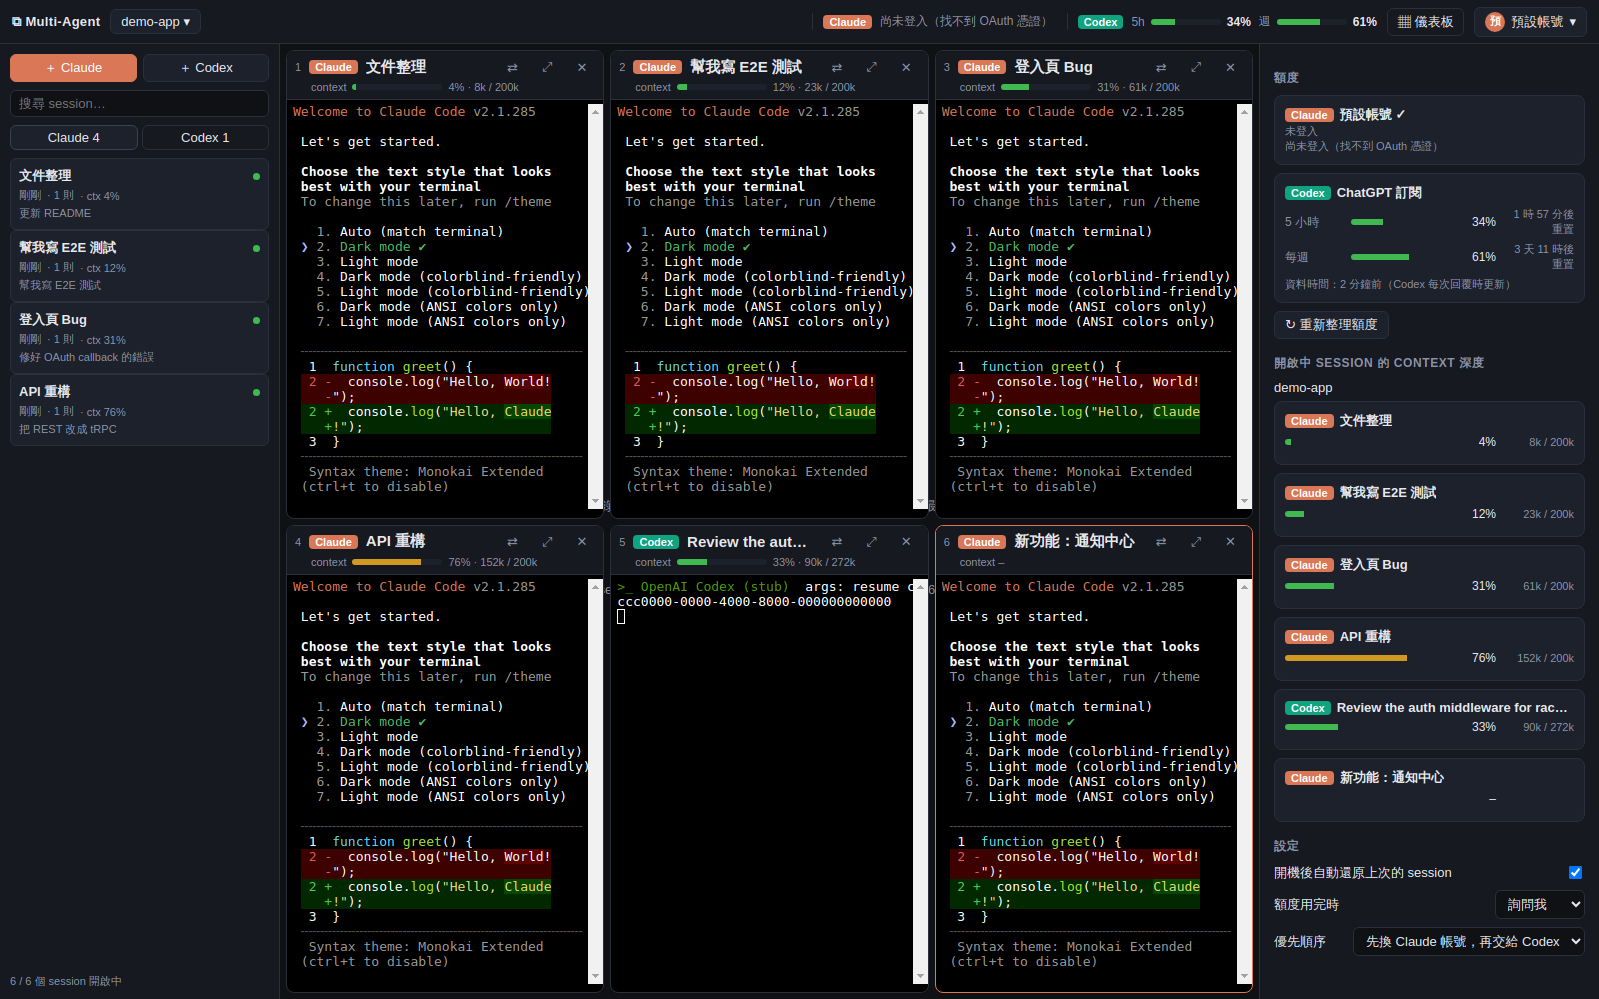
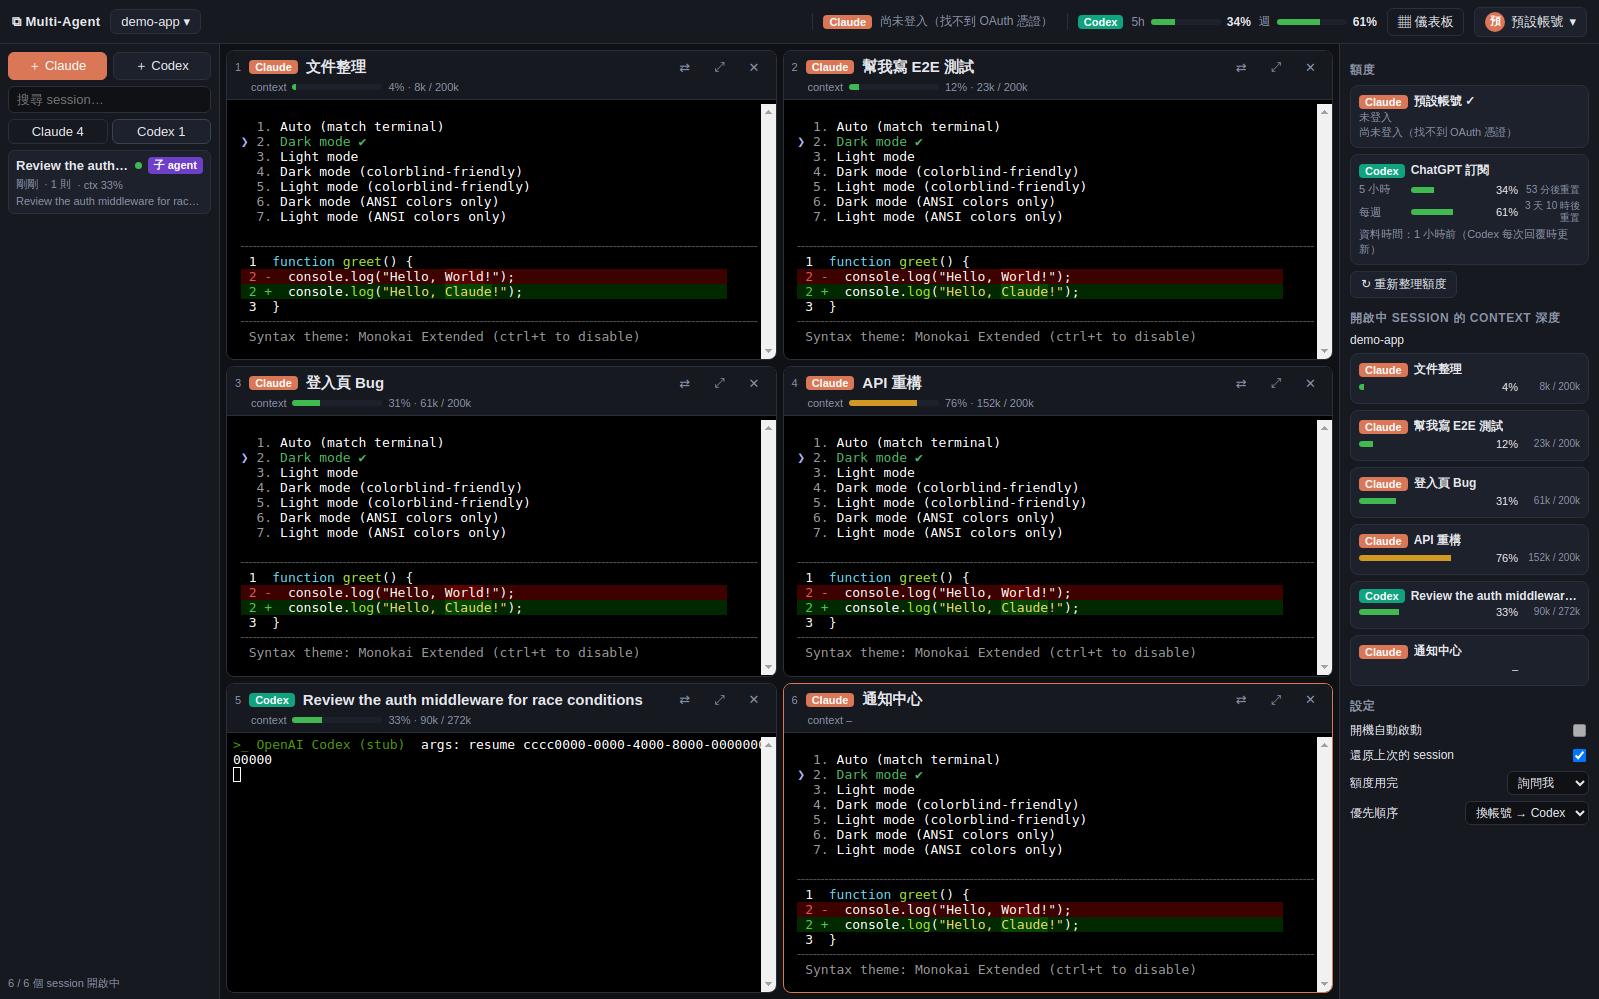
Slimmer side panels and adaptive pane grid that always fills the workspace
- Sidebar 280px -> 220px, dashboard 340px -> 260px with compact cards/settings
- Grid picks column count from the workspace aspect ratio; a short last row
  stretches its panes so any pane count fills the area; relayout on resize
  and when the dashboard is toggled
- Clip xterm helper elements inside each pane and give the workspace a
  background so gaps repaint cleanly after relayout

Claude-Session: https://claude.ai/code/session_01H4MbeqU6uQkmUebYD4LS2x

diff --git a/src/renderer/app.js b/src/renderer/app.js
@@ -216,16 +216,37 @@ function workspaceFor(cwd) {
   return w;
 }
 
-// 1→1×1、2→2×1、3→3×1、4→2×2、5→上 3 下 2、6→3×2，所有窗格平均分配空間
+// 自適應版面：依工作區長寬比挑欄數，讓每格接近終端機舒適的比例（寬:高 ≈ 1.4）。
+// 最後一列若不滿，該列窗格自動加寬，所以不管開幾個都會填滿整個區域、不留空格。
+const TARGET_ASPECT = 1.4;
+const gcd = (a, b) => (b ? gcd(b, a % b) : a);
+
+function bestGrid(n, W, H) {
+  let best = null;
+  for (let cols = 1; cols <= n; cols++) {
+    const rows = Math.ceil(n / cols);
+    const last = n - cols * (rows - 1);
+    const h = H / rows;
+    const off = (w) => Math.abs(Math.log(w / h / TARGET_ASPECT));
+    const cost = ((n - last) * off(W / cols) + last * off(W / last)) / n;
+    if (!best || cost < best.cost - 1e-9) best = { cols, rows, last, cost };
+  }
+  return best;
+}
+
 function layoutGrid(w) {
   const n = w.panes.length;
-  const spec = { 0: [1, 1], 1: [1, 1], 2: [2, 1], 3: [3, 1], 4: [2, 2], 5: [6, 2], 6: [3, 2] }[n];
-  w.el.style.gridTemplateColumns = `repeat(${spec[0]}, minmax(0, 1fr))`;
-  w.el.style.gridTemplateRows = `repeat(${spec[1]}, minmax(0, 1fr))`;
-  w.panes.forEach((p, i) => {
-    p.el.style.gridColumn = n === 5 ? `span ${i < 3 ? 2 : 3}` : '';
-    $('.pane-idx', p.el).textContent = `${i + 1}`;
-  });
+  const host = $('#workspaces');
+  if (n) {
+    const { cols, rows, last } = bestGrid(n, host.clientWidth || 1600, host.clientHeight || 900);
+    const L = (cols * last) / gcd(cols, last); // 欄數取最小公倍數，讓整列與最後一列都能平均分
+    w.el.style.gridTemplateColumns = `repeat(${L}, minmax(0, 1fr))`;
+    w.el.style.gridTemplateRows = `repeat(${rows}, minmax(0, 1fr))`;
+    w.panes.forEach((p, i) => {
+      p.el.style.gridColumn = `span ${i < n - last ? L / cols : L / last}`;
+    });
+  }
+  w.panes.forEach((p, i) => ($('.pane-idx', p.el).textContent = `${i + 1}`));
   $('#empty').hidden = !!S.cwd;
   $('#paneCount').textContent = `${n} / ${S.maxPanes}`;
 }
@@ -924,9 +945,9 @@ function renderDashboard() {
 
   const st = S.settings;
   $('#dashSettings').innerHTML = `
-    <label>登入電腦時自動開啟本程式 <input type="checkbox" id="setLogin" ${st.openAtLogin ? 'checked' : ''} ${S.platform === 'linux' ? 'disabled' : ''}></label>
-    <label>啟動後自動還原上次的 session <input type="checkbox" id="setRestore" ${st.autoRestore ? 'checked' : ''}></label>
-    <label>額度用完時
+    <label>開機自動啟動 <input type="checkbox" id="setLogin" ${st.openAtLogin ? 'checked' : ''} ${S.platform === 'linux' ? 'disabled' : ''}></label>
+    <label>還原上次的 session <input type="checkbox" id="setRestore" ${st.autoRestore ? 'checked' : ''}></label>
+    <label>額度用完
       <select id="setFallback">
         <option value="ask" ${st.fallback === 'ask' ? 'selected' : ''}>詢問我</option>
         <option value="auto" ${st.fallback === 'auto' ? 'selected' : ''}>自動接手</option>
@@ -934,8 +955,8 @@ function renderDashboard() {
       </select></label>
     <label>優先順序
       <select id="setOrder">
-        <option value="other-profile,codex" ${String(st.fallbackOrder) === 'other-profile,codex' ? 'selected' : ''}>先換 Claude 帳號，再交給 Codex</option>
-        <option value="codex,other-profile" ${String(st.fallbackOrder) === 'codex,other-profile' ? 'selected' : ''}>先交給 Codex</option>
+        <option value="other-profile,codex" ${String(st.fallbackOrder) === 'other-profile,codex' ? 'selected' : ''}>換帳號 → Codex</option>
+        <option value="codex,other-profile" ${String(st.fallbackOrder) === 'codex,other-profile' ? 'selected' : ''}>Codex 優先</option>
       </select></label>`;
   $('#setLogin').onchange = (e) => saveSettings({ openAtLogin: e.target.checked });
   $('#setRestore').onchange = (e) => saveSettings({ autoRestore: e.target.checked });
@@ -985,6 +1006,15 @@ async function boot() {
     renderDashboard();
   };
   $('#emptyPick').onclick = pickProject;
+  // 視窗縮放、開關儀表板時重新計算版面（各終端機再由自己的 ResizeObserver 重新 fit）
+  let relayoutTimer;
+  new ResizeObserver(() => {
+    clearTimeout(relayoutTimer);
+    relayoutTimer = setTimeout(() => {
+      const w = ws();
+      if (w) layoutGrid(w);
+    }, 50);
+  }).observe($('#workspaces'));
   $('#newClaude').onclick = () => newSession('claude');
   $('#newCodex').onclick = () => newSession('codex');
   $('#search').oninput = (e) => {

diff --git a/src/renderer/styles.css b/src/renderer/styles.css
@@ -178,12 +178,12 @@ select {
   height: calc(100% - 44px);
 }
 #sidebar {
-  width: 280px;
+  width: 220px;
   flex-shrink: 0;
   display: flex;
   flex-direction: column;
-  gap: 8px;
-  padding: 10px;
+  gap: 6px;
+  padding: 8px;
   background: var(--panel);
   border-right: 1px solid var(--line);
 }
@@ -214,7 +214,7 @@ select {
   flex: 1;
 }
 .session-list li {
-  padding: 8px;
+  padding: 6px 7px;
   border-radius: 6px;
   cursor: pointer;
   border: 1px solid transparent;
@@ -274,6 +274,7 @@ select {
 .workspace {
   position: absolute;
   inset: 0;
+  background: var(--bg); /* 明確背景：版面重排後縫隙會重繪，不殘留舊畫面 */
   display: grid;
   gap: 6px;
   padding: 6px;
@@ -313,6 +314,7 @@ select {
 
 /* ---------- panes ---------- */
 .pane {
+  position: relative; /* 讓 xterm 的絕對定位輔助元素被裁切在窗格內 */
   display: flex;
   flex-direction: column;
   min-width: 0;
@@ -404,6 +406,8 @@ select {
   min-width: 160px;
 }
 .term {
+  position: relative;
+  overflow: hidden;
   flex: 1;
   min-height: 0;
   padding: 4px 0 0 6px;
@@ -414,10 +418,11 @@ select {
 
 /* ---------- dashboard ---------- */
 #dashboard {
-  width: 340px;
+  width: 260px;
   flex-shrink: 0;
   overflow-y: auto;
-  padding: 10px 14px;
+  padding: 6px 10px;
+  font-size: 12px;
   background: var(--panel);
   border-left: 1px solid var(--line);
 }
@@ -426,38 +431,39 @@ select {
   text-transform: uppercase;
   letter-spacing: 0.6px;
   color: var(--muted);
-  margin: 16px 0 8px;
+  margin: 12px 0 6px;
 }
 .card {
   background: var(--panel-2);
   border: 1px solid var(--line);
   border-radius: var(--radius);
-  padding: 10px;
-  margin-bottom: 8px;
+  padding: 7px 8px;
+  margin-bottom: 6px;
 }
 .card .row {
   display: flex;
   align-items: center;
-  gap: 8px;
-  margin: 5px 0;
-  font-size: 12px;
+  gap: 6px;
+  margin: 3px 0;
+  font-size: 11px;
 }
 .card .row .label {
-  width: 58px;
+  width: 46px;
   color: var(--muted);
 }
 .card .row .bar {
   flex: 1;
 }
 .card .row .val {
-  width: 42px;
+  width: 32px;
   text-align: right;
 }
 .card .row .reset {
   color: var(--muted);
-  font-size: 11px;
-  width: 70px;
+  font-size: 10px;
+  width: 56px;
   text-align: right;
+  line-height: 1.2;
 }
 .card .head {
   display: flex;
@@ -473,8 +479,12 @@ select {
   display: flex;
   align-items: center;
   justify-content: space-between;
-  gap: 8px;
-  margin: 8px 0;
+  gap: 6px;
+  margin: 6px 0;
+}
+.settings select {
+  max-width: 130px;
+  padding: 3px 6px;
 }
 
 /* ---------- popover / modal / toast ---------- */

diff --git a/README.md b/README.md
@@ -3,7 +3,7 @@
 一個桌面視窗，集中管理同一個專案底下的所有 **Claude Code** 與 **Codex** session：
 
 - 進到專案就看到該目錄的 **所有 session 歷史**（Claude + Codex），點一下就開
-- 最多 **6 個 session 並排**，視窗自動平均分割；每個窗格都是真正的終端機，可以直接對話、看輸出
+- 最多 **6 個 session 並排**，版面依視窗比例自動調整、永遠填滿（最後一列不滿時自動加寬，不留空格）；每個窗格都是真正的終端機，可以直接對話、看輸出
 - 每個窗格上方清楚顯示 **session 名稱**（可雙擊改名）、Claude / Codex 標籤、使用的帳號
 - **儀表板**：Claude 各帳號的 5 小時 / 每週額度、Codex 的 5 小時 / 每週額度、每個 session 的 **context 深度**
 - **開機即還原**：重開程式自動 `--resume` 上次開著的所有 session，不用再開一堆終端機
